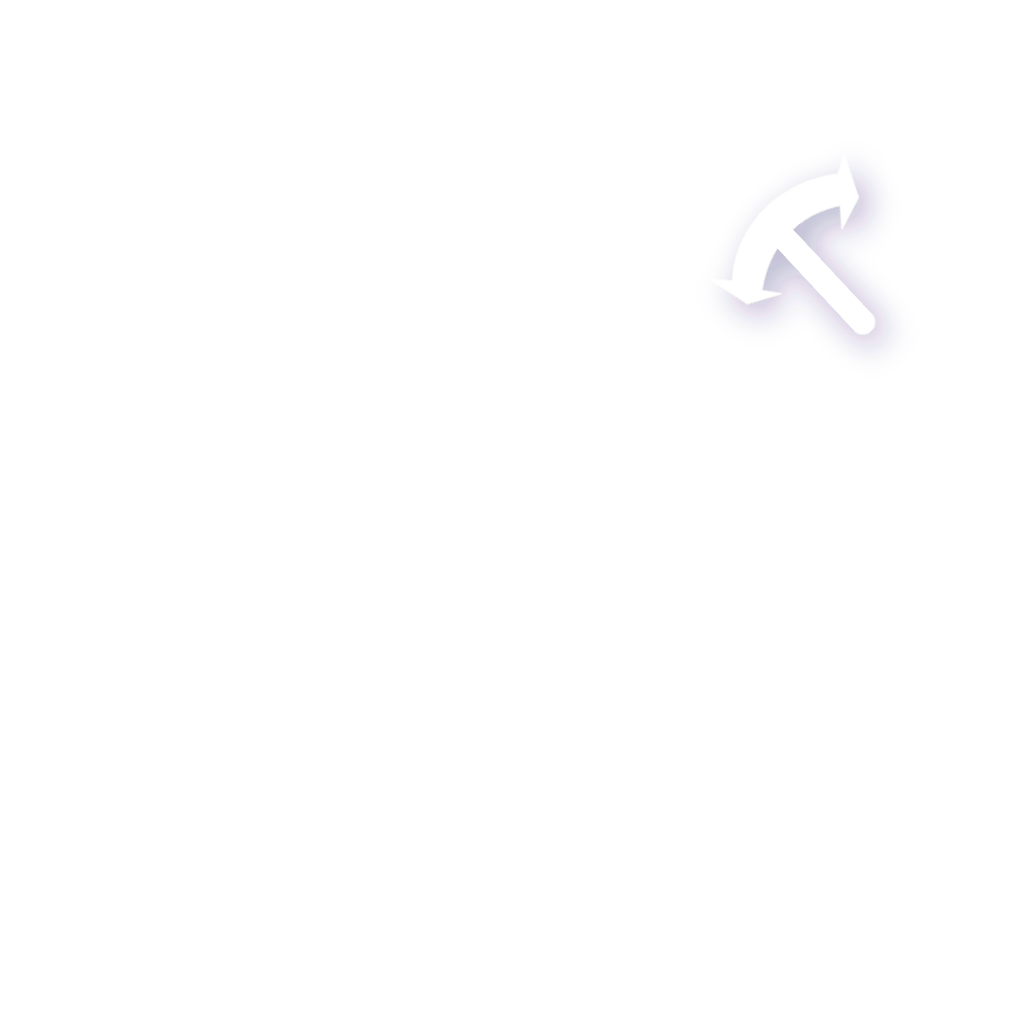
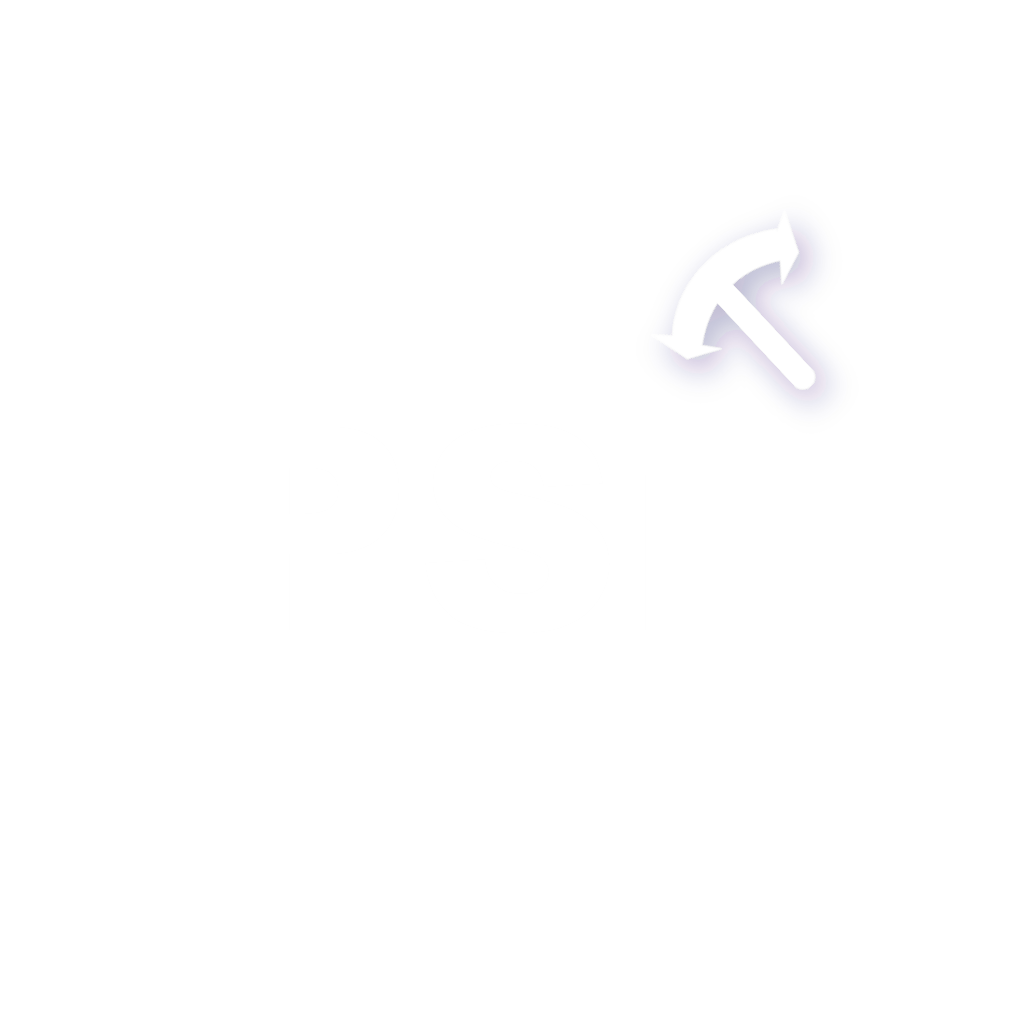
feat: improve mining map and progression

Changed region(s): [[0.6562, 0.1562, 0.875, 0.4062]]

diff --git a/src/features/map/mine-map.tsx b/src/features/map/mine-map.tsx
@@ -3,12 +3,17 @@ import { Animated, LayoutChangeEvent, PanResponder, StyleSheet, Text, View } fro
 import Svg, { Path } from 'react-native-svg';
 
 import landData from '@/assets/data/ne-110m-land.json';
+import { GRID_SIZE_METERS } from '@/domain/mining';
 import { palette } from '@/ui/theme';
 
 const EARTH_RADIUS = 6_378_137;
-const MIN_SCALE = 0.06;
-const MAX_SCALE = 120_000;
-const GRID_THRESHOLD = 0.8;
+// These are numerical safety rails, not user-facing zoom stops. They sit well
+// outside the useful range of the map so a normal gesture never hits a wall.
+const MIN_SCALE = 0.25;
+const MAX_SCALE = 10_000_000;
+const INITIAL_SCALE = 120_000;
+const GRID_THRESHOLD = GRID_SIZE_METERS / 14;
+const COASTLINE_THRESHOLD = 50;
 const WORLD_WIDTH_METERS = 2 * Math.PI * EARTH_RADIUS;
 const WORLD_OVERVIEW_CENTER = { latitude: 15, longitude: 0 };
 
@@ -52,13 +57,28 @@ function touchCenter(touches: readonly { pageX: number; pageY: number }[]) {
   return { x: total.x / touches.length, y: total.y / touches.length };
 }
 
-const LAND_POLYGONS = landData.features.map((feature) => feature.geometry.coordinates.map((ring) => (
-  ring.map(([longitude, latitude]) => toMercator(latitude, longitude))
-)));
+const LAND_POLYGONS = landData.features.map((feature) => feature.geometry.coordinates.map((ring) => {
+  let previousX: number | undefined;
+
+  return ring.map(([longitude, latitude]) => {
+    const point = toMercator(latitude, longitude);
+
+    // Keep a ring continuous when it crosses the antimeridian. Without this,
+    // SVG closes the polygon across the whole viewport and can draw long,
+    // horizontal seams through the map.
+    if (previousX !== undefined) {
+      while (point.x - previousX > WORLD_WIDTH_METERS / 2) point.x -= WORLD_WIDTH_METERS;
+      while (point.x - previousX < -WORLD_WIDTH_METERS / 2) point.x += WORLD_WIDTH_METERS;
+    }
+    previousX = point.x;
+    return point;
+  });
+}));
 
 function coastlinePaths(center: Projected, scale: number, size: Size) {
   const worldWidth = WORLD_WIDTH_METERS / scale;
-  return [-1, 0, 1].flatMap((worldOffset) => LAND_POLYGONS.map((rings, polygonIndex) => ({
+  const centerWorld = Math.round(center.x / WORLD_WIDTH_METERS);
+  return [centerWorld - 1, centerWorld, centerWorld + 1].flatMap((worldOffset) => LAND_POLYGONS.map((rings, polygonIndex) => ({
     key: `${worldOffset}-${polygonIndex}`,
     d: rings.map((ring) => ring.map((point, pointIndex) => {
       const x = size.width / 2 + (point.x - center.x) / scale + worldOffset * worldWidth;
@@ -69,8 +89,8 @@ function coastlinePaths(center: Projected, scale: number, size: Size) {
 }
 
 function scaleLabel(scale: number) {
-  if (scale <= GRID_THRESHOLD) return '화면을 눌러 1m × 1m 막장 선택';
-  return '세계 해안선 지도 · 지역을 눌러 확대';
+  if (scale <= GRID_THRESHOLD) return '100m × 100m 막장을 눌러 선택하세요';
+  return '두 손가락으로 확대하면 막장 Grid가 표시됩니다';
 }
 
 export function MineMap({ latitude, longitude, onSelect }: {
@@ -80,7 +100,7 @@ export function MineMap({ latitude, longitude, onSelect }: {
 }) {
   const [size, setSize] = useState<Size>({ width: 0, height: 0 });
   const [center, setCenter] = useState<Coordinate>(WORLD_OVERVIEW_CENTER);
-  const [scale, setScale] = useState(MAX_SCALE);
+  const [scale, setScale] = useState(INITIAL_SCALE);
   const centerRef = useRef(center);
   const scaleRef = useRef(scale);
   const gestureState = useRef({ touchCount: 0, x: 0, y: 0, distance: 0 });
@@ -156,13 +176,12 @@ export function MineMap({ latitude, longitude, onSelect }: {
       gestureState.current.touchCount = 0;
       if (moved.current) return;
       const point = coordinateAtViewport(event.nativeEvent.locationX, event.nativeEvent.locationY, centerRef.current, scaleRef.current, size);
-      if (scaleRef.current > GRID_THRESHOLD) {
-        updateCenter(point);
-        updateScale(Math.max(0.12, scaleRef.current / 100));
-        return;
-      }
+      if (scaleRef.current > GRID_THRESHOLD) return;
       const projected = toMercator(point.latitude, point.longitude);
-      const cellCenter = fromMercator(Math.floor(projected.x) + 0.5, Math.floor(projected.y) + 0.5);
+      const cellCenter = fromMercator(
+        Math.floor(projected.x / GRID_SIZE_METERS) * GRID_SIZE_METERS + GRID_SIZE_METERS / 2,
+        Math.floor(projected.y / GRID_SIZE_METERS) * GRID_SIZE_METERS + GRID_SIZE_METERS / 2,
+      );
       onSelect(cellCenter.latitude, cellCenter.longitude);
     },
     onPanResponderTerminate: () => {
@@ -179,15 +198,21 @@ export function MineMap({ latitude, longitude, onSelect }: {
   if (size.width && detailed) {
     const left = projectedCenter.x - size.width * scale / 2;
     const top = projectedCenter.y + size.height * scale / 2;
-    for (let x = Math.ceil(left); x <= left + size.width * scale; x += 1) vertical.push((x - left) / scale);
-    for (let y = Math.floor(top); y >= top - size.height * scale; y -= 1) horizontal.push((top - y) / scale);
+    for (let x = Math.ceil(left / GRID_SIZE_METERS) * GRID_SIZE_METERS; x <= left + size.width * scale; x += GRID_SIZE_METERS) vertical.push((x - left) / scale);
+    for (let y = Math.floor(top / GRID_SIZE_METERS) * GRID_SIZE_METERS; y >= top - size.height * scale; y -= GRID_SIZE_METERS) horizontal.push((top - y) / scale);
   }
 
-  const paths = detailed || !size.width ? [] : coastlinePaths(projectedCenter, scale, size);
+  // At street/grid scale the world geometry would be millions of pixels wide.
+  // Skipping it avoids native SVG precision artifacts while zooming; the grid
+  // takes over once individual mining cells are meaningful.
+  const showCoastline = scale >= COASTLINE_THRESHOLD;
+  const paths = !showCoastline || !size.width ? [] : coastlinePaths(projectedCenter, scale, size);
 
-  const selectedLeft = size.width / 2 + (Math.floor(selected.x) - projectedCenter.x) / scale;
-  const selectedTop = size.height / 2 - (Math.floor(selected.y) + 1 - projectedCenter.y) / scale;
-  const selectedSize = 1 / scale;
+  const selectedGridX = Math.floor(selected.x / GRID_SIZE_METERS) * GRID_SIZE_METERS;
+  const selectedGridY = Math.floor(selected.y / GRID_SIZE_METERS) * GRID_SIZE_METERS;
+  const selectedLeft = size.width / 2 + (selectedGridX - projectedCenter.x) / scale;
+  const selectedTop = size.height / 2 - (selectedGridY + GRID_SIZE_METERS - projectedCenter.y) / scale;
+  const selectedSize = GRID_SIZE_METERS / scale;
 
   return (
     <View style={styles.wrap} onLayout={(event: LayoutChangeEvent) => setSize(event.nativeEvent.layout)} {...responder.panHandlers}>
@@ -201,7 +226,7 @@ export function MineMap({ latitude, longitude, onSelect }: {
         <Animated.View pointerEvents="none" style={[StyleSheet.absoluteFill, { opacity: pulse.interpolate({ inputRange: [0, 1], outputRange: [0.9, 1] }) }]}>
           <Svg width={size.width} height={size.height} viewBox={`0 0 ${size.width} ${size.height}`}>
             {paths.map((path) => (
-              <Path key={path.key} d={path.d} fill="#BAF7D0" fillRule="evenodd" stroke="#F7F4FF" strokeWidth={1.25} strokeLinejoin="round" />
+              <Path key={path.key} d={path.d} fill="#BAF7D0" fillRule="evenodd" />
             ))}
           </Svg>
         </Animated.View>

diff --git a/src/features/profile/profile-screen.tsx b/src/features/profile/profile-screen.tsx
@@ -11,6 +11,8 @@ export function ProfileScreen() {
   const user = state.user!;
   const [wallet, setWalletInput] = useState(user.walletAddress);
   const pickaxe = pickaxeForReferrals(user.referrals);
+  const currentSpeed = miningSpeed(user.level, pickaxe);
+  const nextLevel = Math.min(10, user.level + 1);
 
   function saveWallet() {
     const normalized = wallet.trim();
@@ -25,6 +27,25 @@ export function ProfileScreen() {
 
   return (
     <Screen>
+      <Card style={styles.levelCard}>
+        <View style={styles.levelHeader}>
+          <View>
+            <Text style={styles.levelEyebrow}>노련미 성장 단계</Text>
+            <Text style={styles.levelTitle}>현재 Lv.{user.level} · {currentSpeed.toFixed(1)}m/hr</Text>
+          </View>
+          <Text style={styles.levelReferral}>초대 {user.referrals}명</Text>
+        </View>
+        <View style={styles.levelGauge} accessibilityRole="progressbar" accessibilityValue={{ min: 0, max: 10, now: user.level }}>
+          {Array.from({ length: 11 }, (_, level) => (
+            <View key={level} style={styles.levelStepWrap}>
+              <View style={[styles.levelStep, level <= user.level && styles.levelStepActive, level === user.level && styles.levelStepCurrent]} />
+              {(level === 0 || level === 5 || level === 10) && <Text style={styles.levelStepLabel}>Lv.{level}</Text>}
+            </View>
+          ))}
+        </View>
+        <Text style={styles.levelHelp}>기본 1.0 + 노련미 {(user.level * 0.1).toFixed(1)} + 곡괭이 {(currentSpeed - (1 + user.level * 0.1)).toFixed(1)}m/hr</Text>
+        <Text style={styles.levelNext}>{user.level < 10 ? `다음 Lv.${nextLevel} 노련미 속도: ${(1 + nextLevel * 0.1).toFixed(1)}m/hr` : '최고 노련미 단계에 도달했습니다'}</Text>
+      </Card>
       <Header eyebrow="MINER PROFILE" title={user.name} right={user.piVerified ? <View style={styles.verified}><Text style={styles.verifiedText}>π VERIFIED</Text></View> : null} />
       <Card style={styles.balanceCard}>
         <Text style={styles.balanceLabel}>보유 PSL</Text>
@@ -80,6 +101,19 @@ const styles = StyleSheet.create({
   balanceSymbol: { color: '#AFA0FF', fontWeight: '900', marginTop: -8, marginBottom: 6 },
   fee: { color: '#C8C4D8', fontSize: 11, textAlign: 'center' },
   metrics: { flexDirection: 'row', gap: 10, paddingVertical: 3 },
+  levelCard: { backgroundColor: palette.surface2, borderColor: '#D9D1FF' },
+  levelHeader: { flexDirection: 'row', justifyContent: 'space-between', alignItems: 'center', gap: 8 },
+  levelEyebrow: { color: palette.goldDark, fontSize: 11, fontWeight: '900' },
+  levelTitle: { color: palette.text, fontSize: 20, fontWeight: '900', marginTop: 3 },
+  levelReferral: { color: palette.goldDark, fontSize: 11, fontWeight: '800', backgroundColor: '#FFF', paddingHorizontal: 9, paddingVertical: 6, borderRadius: 10 },
+  levelGauge: { flexDirection: 'row', marginTop: 15, marginBottom: 17, gap: 3 },
+  levelStepWrap: { flex: 1, position: 'relative' },
+  levelStep: { height: 10, borderRadius: 5, backgroundColor: '#DCD8EE' },
+  levelStepActive: { backgroundColor: palette.gold },
+  levelStepCurrent: { backgroundColor: palette.goldDark, transform: [{ scaleY: 1.5 }] },
+  levelStepLabel: { position: 'absolute', top: 13, alignSelf: 'center', color: palette.muted, fontSize: 8, fontWeight: '700' },
+  levelHelp: { color: palette.text, fontSize: 12, fontWeight: '800' },
+  levelNext: { color: palette.goldDark, fontSize: 11, marginTop: 4, fontWeight: '700' },
   sectionTitle: { color: palette.text, fontSize: 18, fontWeight: '900' },
   helper: { color: palette.muted, fontSize: 13, lineHeight: 19 },
   input: { minHeight: 52, borderRadius: 15, borderWidth: 1, borderColor: palette.border, backgroundColor: palette.background, color: palette.text, paddingHorizontal: 15, fontSize: 13 },

diff --git a/src/domain/mining.test.ts b/src/domain/mining.test.ts
@@ -19,17 +19,18 @@ test('level and referral bonuses follow the confirmed balance table', () => {
   assert.equal(miningSpeed(10, pickaxeForReferrals(10)), 3);
 });
 
-test('the same coordinate always resolves to the same 1m grid id', () => {
+test('coordinates resolve to 100m grid ids', () => {
   assert.equal(gridIdFromCoordinate(37.5665, 126.978), gridIdFromCoordinate(37.5665, 126.978));
-  assert.notEqual(gridIdFromCoordinate(37.5665, 126.978), gridIdFromCoordinate(37.56652, 126.978));
+  assert.equal(gridIdFromCoordinate(37.5665, 126.978), gridIdFromCoordinate(37.56652, 126.978));
+  assert.notEqual(gridIdFromCoordinate(37.5665, 126.978), gridIdFromCoordinate(37.568, 126.978));
 });
 
-test('a level 10 solo miner completes 48m in one 24 hour activation', () => {
+test('a level 10 solo miner reaches 48m of the 72m target in one activation', () => {
   const start = new Date('2026-01-01T00:00:00.000Z');
   const mine = activateWithAd(createGrid(37.5, 127), 'miner-a', start);
   const completed = settleMine(mine, 2, new Date('2026-01-02T00:00:00.000Z'));
   assert.equal(completed.depthMeters, 48);
-  assert.equal(completed.completed, true);
+  assert.equal(completed.completed, false);
 });
 
 test('voluntary exit preserves depth for the next miner', () => {

diff --git a/src/domain/mining.ts b/src/domain/mining.ts
@@ -1,4 +1,6 @@
-export const MINE_DEPTH_METERS = 48;
+export const GRID_SIZE_METERS = 100;
+export const MINE_DEPTH_METERS = 72;
+export const BASE_MINING_SPEED = 1;
 export const AD_ACTIVE_HOURS = 24;
 export const ABANDONMENT_DAYS = 7;
 export const PSL_PER_WINNING_GRID = 100_000_000;
@@ -29,7 +31,7 @@ const PICKAXE_BONUS: Record<Pickaxe, number> = {
 };
 
 export function levelSpeed(level: number) {
-  return 1 + Math.min(10, Math.max(0, level)) * 0.1;
+  return BASE_MINING_SPEED + Math.min(10, Math.max(0, level)) * 0.1;
 }
 
 export function miningSpeed(level: number, pickaxe: Pickaxe) {
@@ -49,7 +51,7 @@ export function gridIdFromCoordinate(latitude: number, longitude: number) {
   const radius = 6378137;
   const x = radius * longitude * Math.PI / 180;
   const y = radius * Math.log(Math.tan(Math.PI / 4 + clampedLatitude * Math.PI / 360));
-  return `G-${Math.floor(x)}-${Math.floor(y)}`;
+  return `G-${Math.floor(x / GRID_SIZE_METERS)}-${Math.floor(y / GRID_SIZE_METERS)}`;
 }
 
 export function createGrid(latitude: number, longitude: number): GridMine {

diff --git a/src/features/map/map-screen.tsx b/src/features/map/map-screen.tsx
@@ -2,6 +2,7 @@ import { Alert, StyleSheet, Text, View } from 'react-native';
 import { SafeAreaView } from 'react-native-safe-area-context';
 
 import { MineMap } from '@/features/map/mine-map';
+import { MINE_DEPTH_METERS } from '@/domain/mining';
 import { useAppState } from '@/state/app-state';
 import { Button, Card } from '@/ui/components';
 import { palette } from '@/ui/theme';
@@ -34,7 +35,7 @@ export function MapScreen() {
             <Text style={styles.label}>선택한 1m 격자</Text>
             <Text numberOfLines={1} style={styles.gridId}>{grid.id}</Text>
           </View>
-          <View style={styles.badge}><Text style={styles.badgeText}>{grid.depthMeters.toFixed(1)} / 48m</Text></View>
+          <View style={styles.badge}><Text style={styles.badgeText}>{grid.depthMeters.toFixed(1)} / {MINE_DEPTH_METERS}m</Text></View>
         </View>
         <Button
           title={currentMine && currentMine.id !== grid.id ? '여기서 채굴 다시 시작하기' : '여기서 채굴 시작하기'}
